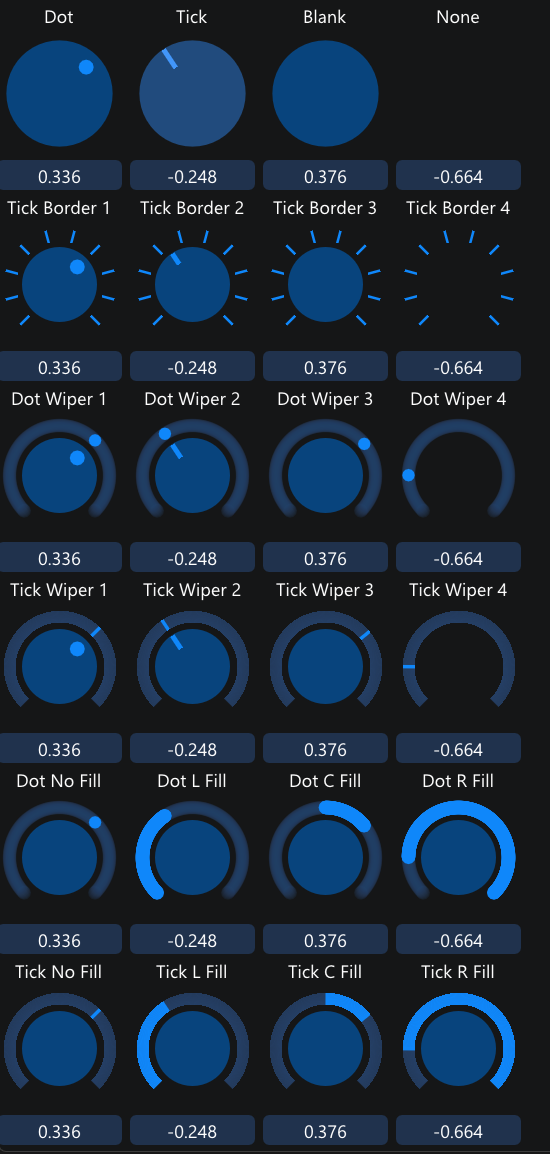
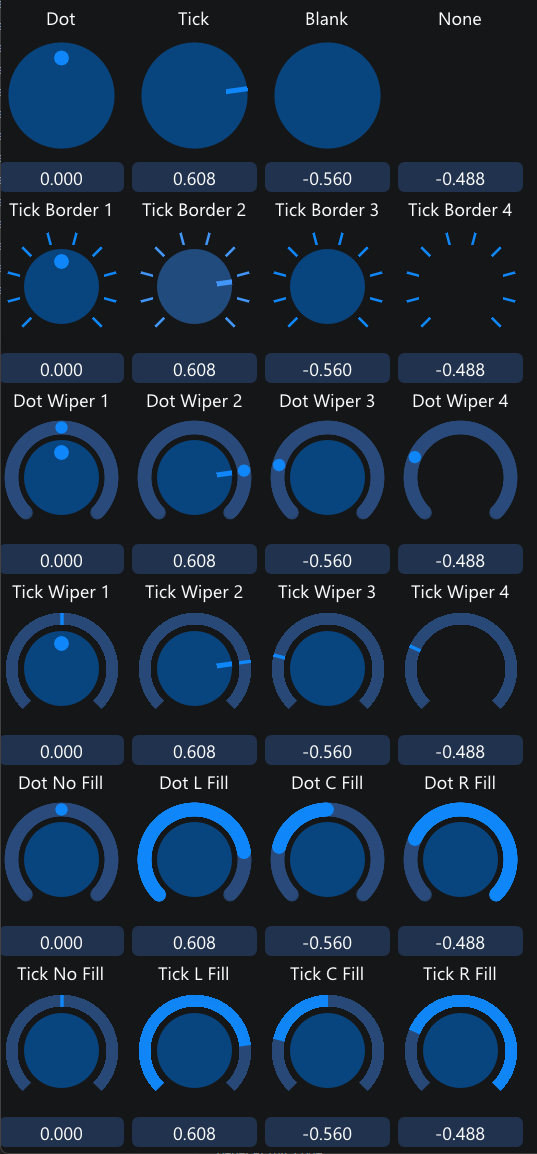
More uniform arc drawing
Simplifying arc drawing by making the tick track overlap more to match the alpha blending in the dot track

diff --git a/imgui-knobs.cpp b/imgui-knobs.cpp
@@ -212,13 +212,6 @@ namespace ImGuiKnobs {
 
             return {colors[ImGuiCol_FrameBg], colors[ImGuiCol_FrameBg], colors[ImGuiCol_FrameBg]};
         }
-
-        color_set GetTrackColorSet(float AlphaAdjust) {
-            auto *colors = ImGui::GetStyle().Colors;
-            ImVec4 Color = colors[ImGuiCol_FrameBg];
-            Color.w *= AlphaAdjust;
-            return {Color, Color, Color};
-        }
     }// namespace detail
 
 
@@ -247,16 +240,13 @@ namespace ImGuiKnobs {
 
                 button_size = 0.6f;
                 dot_position = 0.4f;
-                tick_position = 0.4f;
+                tick_position = 0.35f;
                 break;
             }
             case ImGuiKnobBorderStyle_WiperDot:
             {
                 //custom arc because draw arc has weird alpha overlap issues, also it's round and that's neat (add a constant to lower alpha)
-                for(float ang = knob.angle_min; ang <= knob.angle_max; ang += 0.01f) { knob.draw_dot(0.11, 0.8f, ang, detail::GetTrackColorSet(0.1f), true, 12); }
-                //some jank to fix alpha blend at the ends of the round tracks
-                knob.draw_dot(0.11, 0.8f, knob.angle_min, detail::GetTrackColorSet(0.2f), true, 12);
-                knob.draw_dot(0.11, 0.8f, knob.angle_max, detail::GetTrackColorSet(0.2f), true, 12);
+                for(float ang = knob.angle_min; ang <= knob.angle_max; ang += 0.01f) { knob.draw_dot(0.11, 0.8f, ang, detail::GetTrackColorSet(), true, 12); }
                 //actually draw the tracking dot
                 knob.draw_dot(0.1f, 0.8f, knob.angle, detail::GetPrimaryColorSet(), true, 12);
 
@@ -270,8 +260,9 @@ namespace ImGuiKnobs {
             }
             case ImGuiKnobBorderStyle_WiperTick:
             {
-                //custom arc because draw arc has weird alpha overlap issues
-                for(float ang = knob.angle_min; ang <= knob.angle_max; ang += 0.01f) { knob.draw_tick(0.71f, 0.9f, 0.01f, ang, detail::GetTrackColorSet()); }
+                //custom arc because draw arc has weird alpha overlap issues (ang increment is smaller to make color match dots better)
+                for(float ang = knob.angle_min; ang <= knob.angle_max; ang += 0.005f) { knob.draw_tick(0.71f, 0.9f, 0.02f, ang, detail::GetTrackColorSet()); }
+                //draw the tick
                 knob.draw_tick(0.71f, 0.9f, 0.055f, knob.angle, detail::GetPrimaryColorSet());
 
                 //fill
